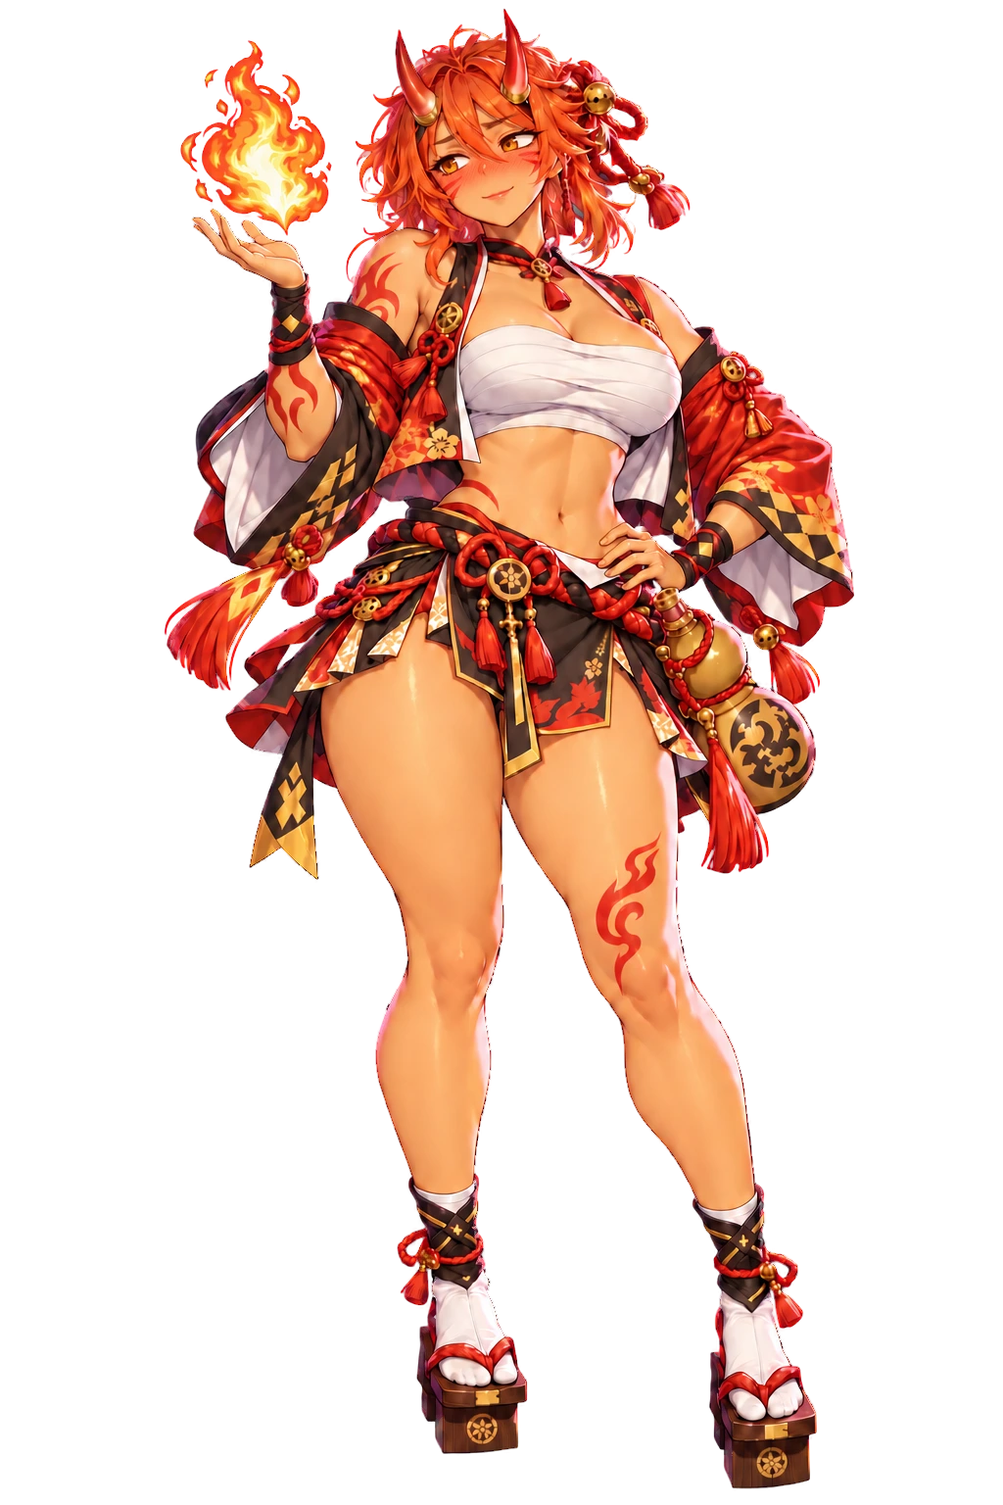
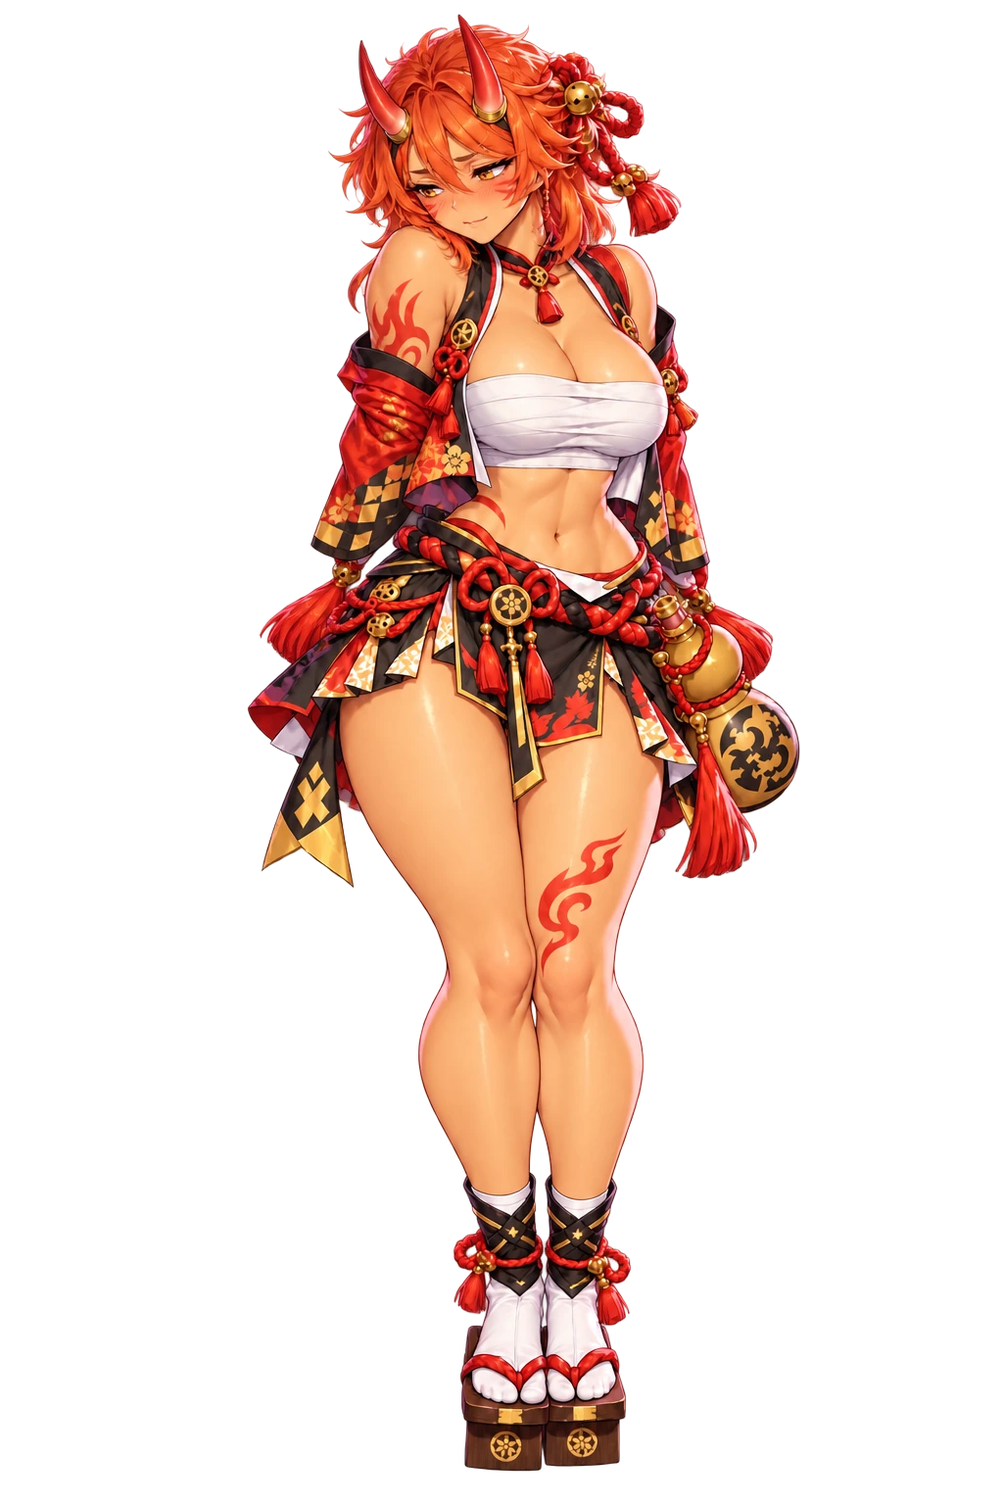
Pose moods for Kaede
Nine whole-pose moods for Kaede, approved by the owner (D-029, B-20).

- Generated with real transparency from her original base portrait. No
  flame in the poses; hands are fists, on her hip, on the gourd or hidden.
- Kaede is in POSE_MOODS with per-picture hand boxes.
- Every line of her chats has a mood; angry and sad are used in Hinoe and
  If I Burn.
- Docs: ART_ASSETS pose table, ART_QA, STATUS, B-20.

diff --git a/src/data/dialogues.ts b/src/data/dialogues.ts
@@ -173,6 +173,7 @@ export const EPISODES: ChatEpisode[] = [
         "Hey... dance with me. Everyone's watching and I want them jealous.",
         ['Lead the way.', 'g', 30],
         ["I can't dance.", 'h', 15],
+        'wink',
       ),
       her('g', 'Hands here. And here. There we go — see? You move good when you stop thinking.', 'z', 'blush'),
       her('h', "Who cares? Just hold on to me and let me do the work. I'm very good at that.", 'z', 'wink'),
@@ -198,7 +199,13 @@ export const EPISODES: ChatEpisode[] = [
       ),
       her('d', "...Yeah? You think so? You're not just saying that to be nice?", 'f', 'blush'),
       her('e', "Tch. You see through me too easily. That's annoying. ...Stay anyway.", 'f', 'shy'),
-      pick('f', 'Wanna touch them? Nobody ever asks. Everyone just stares.', ['Can I?', 'g', 30], ['Only if you want me to.', 'h', 30]),
+      pick(
+        'f',
+        'Wanna touch them? Nobody ever asks. Everyone just stares.',
+        ['Can I?', 'g', 30],
+        ['Only if you want me to.', 'h', 30],
+        'shy',
+      ),
       her('g', "Gently... Hm. Your hands are warm. That tickles. Don't stop.", 'z', 'blush'),
       her('h', 'I want you to. Obviously. Why else would I sit here looking pathetic waiting for you?', 'z', 'pout'),
       end('z', "Okay! Mood fixed! Tomorrow I'm blowing up twice as many monsters, just for you.", 'laugh'),
@@ -547,6 +554,7 @@ export const EPISODES: ChatEpisode[] = [
         'Hey. You ever wonder why an oni is fighting for a human shrine?',
         ['Every day. Tell me.', 'd', 30],
         ['I figured you just liked explosions.', 'e', 20],
+        'shy',
       ),
       her('d', "Straight to it. That's why I like you.", 'f', 'smile'),
       her('e', "I DO like explosions. But no. That's not it.", 'f', 'laugh'),
@@ -554,19 +562,20 @@ export const EPISODES: ChatEpisode[] = [
         'f',
         'My village was Hinoe. Every year we danced the Ember Festival to keep the Blight out of the south. The humans loved the festival. They hated the dancers.',
         'g',
-        'pout',
+        'angry',
       ),
       her(
         'g',
         'One year they got scared and barred it. No fires, no dance. The Blight came that night. By morning I was the only oni left in Hinoe, standing in the ashes, still burning.',
         'h',
-        'shy',
+        'sad',
       ),
       pick(
         'h',
         "I don't remember most of that night. Just being so angry that the Blight ran from me. That part scares me more than any monster.",
         ['You were still protecting them. After everything.', 'i', 30],
         ["I'm glad you survived.", 'j', 25],
+        'sad',
       ),
       her('i', "...Yeah. Stupid, right? I'd do it again. Don't tell anyone I'm sentimental.", 'z', 'blush'),
       her('j', "Me too. Most days. Today's a good day, 'cause you're here.", 'z', 'smile'),
@@ -582,12 +591,13 @@ export const EPISODES: ChatEpisode[] = [
     start: 'a',
     nodes: [
       nar('a', "Scorch marks cover the training ground. Kaede's hands are shaking, and the dummy beside her is still smoking.", 'b'),
-      her('b', "It's fine. I'm fine. I pushed the Awakening too far in practice. Almost couldn't stop.", 'c', 'pout'),
+      her('b', "It's fine. I'm fine. I pushed the Awakening too far in practice. Almost couldn't stop.", 'c', 'sad'),
       pick(
         'c',
         "I need to ask you something, and you're not allowed to make it sappy.",
         ['No promises.', 'd', 25],
         ['Anything. Ask.', 'e', 30],
+        'pout',
       ),
       her('d', 'Ugh. Fine. Sappy allowed. A little.', 'f', 'laugh'),
       her('e', "Just like that? You're too easy. ...That's why it's gotta be you.", 'f', 'shy'),
@@ -597,7 +607,13 @@ export const EPISODES: ChatEpisode[] = [
         'g',
         'shy',
       ),
-      pick('g', "Can you do that? Even if I'm scary?", ["You're never scary to me.", 'h', 25], ["I'll pull you back every time.", 'i', 30]),
+      pick(
+        'g',
+        "Can you do that? Even if I'm scary?",
+        ["You're never scary to me.", 'h', 25],
+        ["I'll pull you back every time.", 'i', 30],
+        'sad',
+      ),
       her('h', "Liar. I'm terrifying. ...But thanks. I'll pretend I believe you.", 'z', 'laugh'),
       her('i', 'Every time, huh? Even if I burn your hand?', 'j', 'tease'),
       you('j', 'Even then.', 'k'),
@@ -629,6 +645,7 @@ export const EPISODES: ChatEpisode[] = [
         "So. Uh. Sit there. Don't laugh. If you laugh I'll set your sleeves on fire. Lovingly.",
         ["I wouldn't dream of laughing.", 'd', 25],
         ["I've been waiting for this.", 'e', 30],
+        'blush',
       ),
       her('d', "Good. Liar. You're smiling already.", 'f', 'laugh'),
       her('e', 'You... knew? Of course you knew. Everyone knows everything around here.', 'f', 'blush'),
@@ -648,6 +665,7 @@ export const EPISODES: ChatEpisode[] = [
         'So? Say something before I explode. Literally. It is a real risk.',
         ['I carry your flame, Kaede. Always.', 'i', 30],
         ['Teach me the dance.', 'j', 30],
+        'blush',
       ),
       her('i', '...Damn it. I said no crying. I love you, you idiot. There.', 'z', 'blush'),
       her('j', "Teach you? The second time it's a dance for two... yeah. Yeah, I'll teach you. Every year.", 'z', 'laugh'),

diff --git a/scripts/artSpec.ts b/scripts/artSpec.ts
@@ -10,7 +10,7 @@ export { MOODS };
  * portrait with a new face. The gate checks their moods keep her size and footing
  * instead of her silhouette. Every heroine moves here as her art is redone.
  */
-export const POSE_MOODS: ReadonlySet<string> = new Set(['scarlet', 'yuki']);
+export const POSE_MOODS: ReadonlySet<string> = new Set(['scarlet', 'yuki', 'kaede']);
 export const CHIBI_FILES = ['chibi', 'chibi-attack', 'chibi-back', 'chibi-back-attack'] as const;
 export const GALLERY_FILES = [1, 2, 3, 4, 5].map((n) => `gallery-${n}`);
 
@@ -110,10 +110,42 @@ export const HAND_BOXES: Record<string, Box[] | Record<string, Box[]>> = {
     ],
     'portrait-sad': [[540, 280, 180, 240]],
   },
-  kaede: [
-    [160, 170, 200, 180],
-    [580, 470, 180, 170],
-  ],
+  kaede: {
+    portrait: [
+      [160, 170, 200, 180],
+      [580, 470, 180, 170],
+    ],
+    // smile: both hands behind her head; shy: both behind her back.
+    'portrait-smile': [
+      [250, 50, 200, 150],
+      [560, 50, 200, 150],
+    ],
+    'portrait-laugh': [
+      [223, 105, 170, 170],
+      [559, 447, 170, 170],
+    ],
+    'portrait-tease': [
+      [359, 183, 170, 170],
+      [593, 465, 170, 170],
+    ],
+    'portrait-wink': [
+      [273, 51, 170, 170],
+      [567, 489, 170, 170],
+    ],
+    'portrait-blush': [
+      [280, 80, 200, 170],
+      [727, 696, 170, 170],
+    ],
+    'portrait-pout': [[600, 380, 220, 180]],
+    'portrait-angry': [
+      [217, 231, 170, 170],
+      [655, 297, 170, 170],
+    ],
+    'portrait-sad': [
+      [323, 333, 170, 170],
+      [349, 683, 170, 170],
+    ],
+  },
   selene: [
     [190, 190, 200, 200],
     [740, 680, 200, 200],

diff --git a/docs/STATUS.md b/docs/STATUS.md
@@ -63,14 +63,15 @@
 
 ## Last session
 
-**2026-10-03 — Pose moods: Scarlet and Yuki approved; cut-outs with real transparency (Claude, local Windows session). Merged to `main` at the owner's request so he can test both (B-20 continues)**
+**2026-10-03 — Pose moods: Scarlet, Yuki and Kaede approved; cut-outs with real transparency (Claude, local Windows session). Merged to `main` at the owner's request so he can test both (B-20 continues)**
 
 - The owner asked two things. (1) Can the generator output transparent backgrounds? Yes: Codex's image tool has `transparent_background`. Its cut-out beats keying a green screen (no screen colour to unmix; halo ≤ 0.004 once `npm run art` strips the faint fringe it leaves, `cleanAlpha` in `scripts/chroma.ts`). It is now a rule (AGENTS §7, ART_GUIDE §3 and §9): anything that needs a transparent background is asked transparent from the generator. (2) Moods should be whole poses, not the base portrait with a new face (D-029).
 - Scarlet has nine pose moods, **approved by the owner** (list and lessons in ART_ASSETS "Pose moods"). He rejected the first `blush`, `tease` and `shy` for their hands and picked replacements from two candidates each; he also picked a regenerated base portrait (real transparency, clean hair). The mood set is smile, laugh, tease, wink, blush, shy, pout, angry, sad (`MOODS` in `src/data/progression.ts`, the one definition now); `smirk`/`grin` files are deleted and their lines retagged for all five heroines; every line of Scarlet's has a mood (an untagged line falls back to `smile`, which with poses means she snaps back to the smile pose mid-scene). The other four have no `angry`/`sad` art yet, so their lines don't use them (a data test enforces it).
 - Chat: the old pose fades out under the new one (`.leave`, `MOOD_SWAP_MS`). Art gate: pose moods are checked for size and footing (`POSE_MOODS`), hand boxes are per picture, and the hands sheet zooms 3× (at 1.6× I passed hands he rejected).
 - **Rule from the owner: new art gets his review before it is committed.** Send him the moods sheet and the hands sheet first.
 - Yuki has nine pose moods, **approved by the owner** (ART_ASSETS has her pose table); she keeps her staff in every pose and her sleeves hide a hand where they can. Every line of hers has a mood; `sad` is on the lines about her sisters. Her base portrait is the original: regenerating it with real transparency changed her hand and feet, and after seeing Kaede's takes too the owner decided approved originals stay and only new images use transparency (Scarlet's regenerated base, which he picked earlier, is the one exception in the game).
-- Next: Kaede, Selene, Nemu (B-20 has the steps). The owner is testing Scarlet and Yuki in the live game. Pictures waiting for his review are in `artifacts/art-src/<id>/` on his PC (git-ignored), not in the repo.
+- Kaede has nine pose moods, **approved by the owner**, all first takes (ART_ASSETS has her pose table). No flame in the poses. `angry` and `sad` are used in `Hinoe` and `If I Burn`; every line of hers has a mood.
+- Next: Selene, then Nemu (B-20 has the steps). The owner is testing Scarlet and Yuki in the live game. Pictures waiting for his review are in `artifacts/art-src/<id>/` on his PC (git-ignored), not in the repo.
 
 **Previously, 2026-10-03 — Art gate; ghost halo and blurry chats fixed (Claude, local Windows session)**
 
@@ -134,7 +135,7 @@
 
 ## Next up
 
-0. **Pose moods for Kaede, Selene and Nemu (B-20):** Scarlet's and Yuki's are approved and live. One heroine at a time: nine poses from her approved base, the owner's review, then wire her chats. Ask the owner what he found testing Scarlet and Yuki.
+0. **Pose moods for Selene and Nemu (B-20):** Scarlet's, Yuki's and Kaede's are approved and live. One heroine at a time: nine poses from her approved base, the owner's review, then wire her chats. Ask the owner what he found testing Scarlet and Yuki.
 1. **Art gate sign-off (B-18):** the owner looks at `artifacts/art-check/` (or the game) and signs off each heroine in `docs/ART_QA.md`; redraw what he rejects. Ask him about B-19 (upscaled portraits for 4K framing).
 2. **Nemu follow-ups (owner):** confirm her chibi (B, two pins forward, is shipped; A, mid-throw, is the alternative), play her chats, and decide what to do with the two portrait poses he also liked (my suggestion: use them as gallery pictures). Her five gallery pictures are still placeholders (B-01).
 3. **Owner check of Kaede's and Selene's moods** (open a chat with each; any face he dislikes is one Codex image to redo with her `portrait.webp` as the reference, Kaede on blue, Selene on green). Then **T-08** (drop the `FULL_BODY` set, full body becomes the default framing). Then **Owner check:** Messages → a heroine → Gift / Diary / Talk. Then **owner playtest of the upgrade tree and the bigger heroines** (is 1.5 tiles right? `CHIBI_H` in `BattleScene.ts`; does the map panel sit on the right side of her?) and **install the PWA** on the phone (Add to Home Screen). Then **owner playtest of the skill effects** (upgrade each path to 3 with `?dev`; are signatures readable, too flashy at 3× speed?) and the longer music. Then **owner playtest of music + motion** (is the lofi too quiet/loud? any animation that feels slow or annoying? Tweak durations in the motion block of `style.css`). Then **owner playtest of the lobby + Frostveil Pass**, then the previous items. **Owner playtest (earlier):** read a Bond 5+ chat, watch combat at tier 3, listen to the new sounds. Tune in `Vfx.ts` / `sound.ts`.

diff --git a/docs/ART_ASSETS.md b/docs/ART_ASSETS.md
@@ -25,9 +25,9 @@ Kaede's approved design, for future art of her: left hand on her hip with the el
 
 Selene's approved design, for future art of her: the owner asked for cleavage like the other heroines, so her gown now has an open plunging V neckline with halter straps (this replaces the covered high-neck bodice described below; her chibi was redone to match on 2026-10-03). Right hand raised with the fingertips on her bare shoulder, glossy lilac almond-shaped nails, left hand holding a tall moon bow upright at her side (large gold crescent above a dark grip, lower tip around her knee), thick side braid over her left shoulder, gold heeled sandals. The owner checks hands and nails closely: review both hands zoomed in before showing him a candidate.
 
-## Pose moods (2026-10-03: Scarlet and Yuki approved)
+## Pose moods (2026-10-03: Scarlet, Yuki and Kaede approved)
 
-The owner wants each mood to be a whole pose and expression instead of the base portrait with a new face (D-029). Scarlet is the first; her nine `portrait-<mood>.webp` were generated with her `portrait.webp` as the reference and real transparency from the image tool (`transparent_background`, no green screen). The owner approved her set and the approach, then Yuki's; Kaede, Selene and Nemu follow one at a time (B-20) and until then keep face-only moods and no `angry` or `sad`.
+The owner wants each mood to be a whole pose and expression instead of the base portrait with a new face (D-029). Scarlet is the first; her nine `portrait-<mood>.webp` were generated with her `portrait.webp` as the reference and real transparency from the image tool (`transparent_background`, no green screen). The owner approved her set and the approach, then Yuki's and Kaede's; Selene and Nemu follow one at a time (B-20) and until then keep face-only moods and no `angry` or `sad`.
 
 | Mood  | Scarlet's pose                                                                                      |
 | ----- | --------------------------------------------------------------------------------------------------- |
@@ -58,6 +58,22 @@ Yuki keeps her staff in every pose (a closed grip around the shaft is a hand the
 | sad   | head bowed, both hands holding the staff close, her temple resting against it                        |
 
 Lessons from Yuki: the first `smile` (a hand tucking her hair) came back with dark grey nails that two nail-only edits did not change, so the pose was replaced; no line of hers uses `angry` yet. Regenerating her base portrait with real transparency was tried and dropped: a "recreate exactly" take redraws small parts (the raised hand lost its detail, the feet changed shape; a second round with enlarged close-ups of those parts as extra `-i` images came close but shifted her skin tone). The owner's decision: approved originals stay as they are, and only new images use real transparency. Kaede's two takes were not used either.
+
+Kaede's poses have no flame (a flame over an open palm is the hand the generator gets wrong; only her base portrait has it) and were made from her original keyed base:
+
+| Mood  | Kaede's pose                                                                                   |
+| ----- | ---------------------------------------------------------------------------------------------- |
+| smile | weight on one leg, both arms folded behind her head (hands hidden), a broad closed-mouth smile |
+| laugh | head back, eyes closed, fangs showing, a hand on her hip, the gourd held up by its neck        |
+| tease | leaning in, chin on a loose fist, the other hand on her hip, a fanged smirk                    |
+| wink  | one eye closed, a wide grin, a fist pump beside her head, the other hand on her hip            |
+| blush | red cheeks, eyes away, one hand rubbing the back of her neck (hidden), the other a loose fist  |
+| shy   | both arms behind her back, shoulders up, toes turned in, looking down and away                 |
+| pout  | arms crossed with the hands tucked in, turned away, cheeks puffed                              |
+| angry | brawler stance, feet apart, both fists up, teeth bared, hair and jacket whipped by hot wind    |
+| sad   | head bowed, tears welling, one hand holding her other arm, the other a loose fist at her side  |
+
+All nine passed first time: closed fists, a hand on the hip and hidden hands are the reliable hand poses.
 
 ## Gallery 2, "Off Duty" (2026-10-02)
 

diff --git a/docs/ART_QA.md b/docs/ART_QA.md
@@ -39,7 +39,7 @@ Measured on clean art: halo ≤ 0.03, tint ≤ 1.6 %, spill 0, mood IoU ≥ 0.99
 | ------- | ----------------------------------- | --------------------------------------------------------------------------------------------------------------------------------------------------------------------------------------------------------------------------------------------------------------------------------------------------------------------------------------------------------------------------------------------- | ------------------------------------------------------------------------------------------------- |
 | Scarlet | passes                              | **Nine pose moods (D-029), owner approved 2026-10-03** after three were redone for their hands (blush, tease, shy). Hands reviewed at 3× in all ten pictures: fingers countable, every held revolver gripped, nail colour consistent; same size in every pose; no gun toward the viewer or her head. Base portrait regenerated with real transparency (owner picked take A): clean hair edges | chibi front pose (predates her full-body art), gallery-1 (predates it too)                        |
 | Yuki    | passes                              | **Nine pose moods (D-029), owner approved 2026-10-03.** Hands reviewed at 3.5–6×: every staff hand a closed grip with four fingers and a thumb, nails pale pink in every picture; same size in every pose. Base portrait: the original keyed one, kept by the owner's decision (regenerating it changed her hand and feet)                                                                    | chibi front pose, gallery-1                                                                       |
-| Kaede   | incomplete (no angry, sad)          | Hands correct in all 8 (face-only moods)                                                                                                                                                                                                                                                                                                                                                      | pose moods to redo (B-20); chibi front pose, gallery-1                                            |
+| Kaede   | passes                              | **Nine pose moods (D-029), owner approved 2026-10-03**, all first takes. Hands reviewed at 3.5–6×: fists with four knuckles and a thumb, hip hands with four countable fingers, the gourd gripped by its neck, hands hidden in smile, shy and pout; same size in every pose; no flame outside the base portrait                                                                               | chibi front pose, gallery-1                                                                       |
 | Selene  | incomplete (no angry, sad)          | Hands correct in all 8 (face-only moods)                                                                                                                                                                                                                                                                                                                                                      | pose moods to redo (B-20)                                                                         |
 | Nemu    | incomplete (no angry, sad, gallery) | Hands correct in all 8 (face-only moods)                                                                                                                                                                                                                                                                                                                                                      | pose moods to redo (B-20); chibi front pose (B shipped, A the alternative), five gallery pictures |
 

diff --git a/docs/ART_GUIDE.md b/docs/ART_GUIDE.md
@@ -72,7 +72,7 @@ Follow these rules or faces get cut off:
   - The background must be **transparent** (a box behind her looks bad on the home screen). Two ways to get it:
     - **Best: real transparency from the generator.** Codex's image tool has a `transparent_background` switch (§9). `npm run art` only strips the near-invisible fringe its cut-out leaves. No screen colour ever touches her, so there are no coloured hair edges to repair (measured halo ≤ 0.003; keyed art is 0.008–0.028).
     - **Fallback: a green screen.** The ChatGPT app usually can't output transparency, so ask for a **flat solid pure green (#00FF00)** background: `npm run art` detects green corners and removes the green, edges included.
-  - **Moods are different poses, the same size.** Each `portrait-<mood>.webp` is a new pose and expression (§5.4), but her outfit, her size (head-to-feet height) and the line her feet stand on must match `portrait.webp`: in chats one picture fades into the next, so a change of size or footing shows as her growing or hopping. The art gate measures it. (Kaede, Selene and Nemu still have the older kind, the base pose with only the face changed, until theirs are redrawn.)
+  - **Moods are different poses, the same size.** Each `portrait-<mood>.webp` is a new pose and expression (§5.4), but her outfit, her size (head-to-feet height) and the line her feet stand on must match `portrait.webp`: in chats one picture fades into the next, so a change of size or footing shows as her growing or hopping. The art gate measures it. (Selene and Nemu still have the older kind, the base pose with only the face changed, until theirs are redrawn.)
 - **Chibi (`chibi.webp`)**
   - It is drawn about **one map tile tall**, which is tiny (roughly 40–80 px on screen). It needs a bold silhouette, big head, simple shapes, her signature color and weapon, and no fine details.
   - **She must face screen-RIGHT** (her body angled right, weapon pointing right). The game mirrors her when enemies are on the left.

diff --git a/docs/BACKLOG.md b/docs/BACKLOG.md
@@ -6,11 +6,11 @@ Legend: **P1** next · **P2** soon · **P3** later · 🔒 blocked (reason given
 
 ---
 
-### B-20 · P1 · Pose moods for every heroine (Scarlet and Yuki done; Kaede next)
+### B-20 · P1 · Pose moods for every heroine (Scarlet, Yuki and Kaede done; Selene next)
 
-Moods are whole poses (D-029). The owner approved Scarlet's nine and the approach on 2026-10-03, then Yuki's nine. Both are merged to `main` and live. Base portraits are not regenerated (his decision after Yuki's and Kaede's takes changed hands and feet): the approved original is the reference for the poses.
+Moods are whole poses (D-029). The owner approved Scarlet's nine and the approach on 2026-10-03, then Yuki's and Kaede's. All three are on `main` and live. Base portraits are not regenerated (his decision after Yuki's and Kaede's takes changed hands and feet): the approved original is the reference for the poses.
 
-For each of Kaede, Selene and Nemu, one heroine at a time:
+For each of Selene and Nemu, one heroine at a time:
 
 1. Generate nine poses written for her character (LORE; ART_GUIDE §5.4 and §9, `transparent_background`). Use hand poses the generator gets right (ART_ASSETS "Pose moods" lessons).
 2. `npm run art`, add her to `POSE_MOODS`, give her per-picture `HAND_BOXES` (`scripts/artSpec.ts`), review the hands sheet at 3×.
